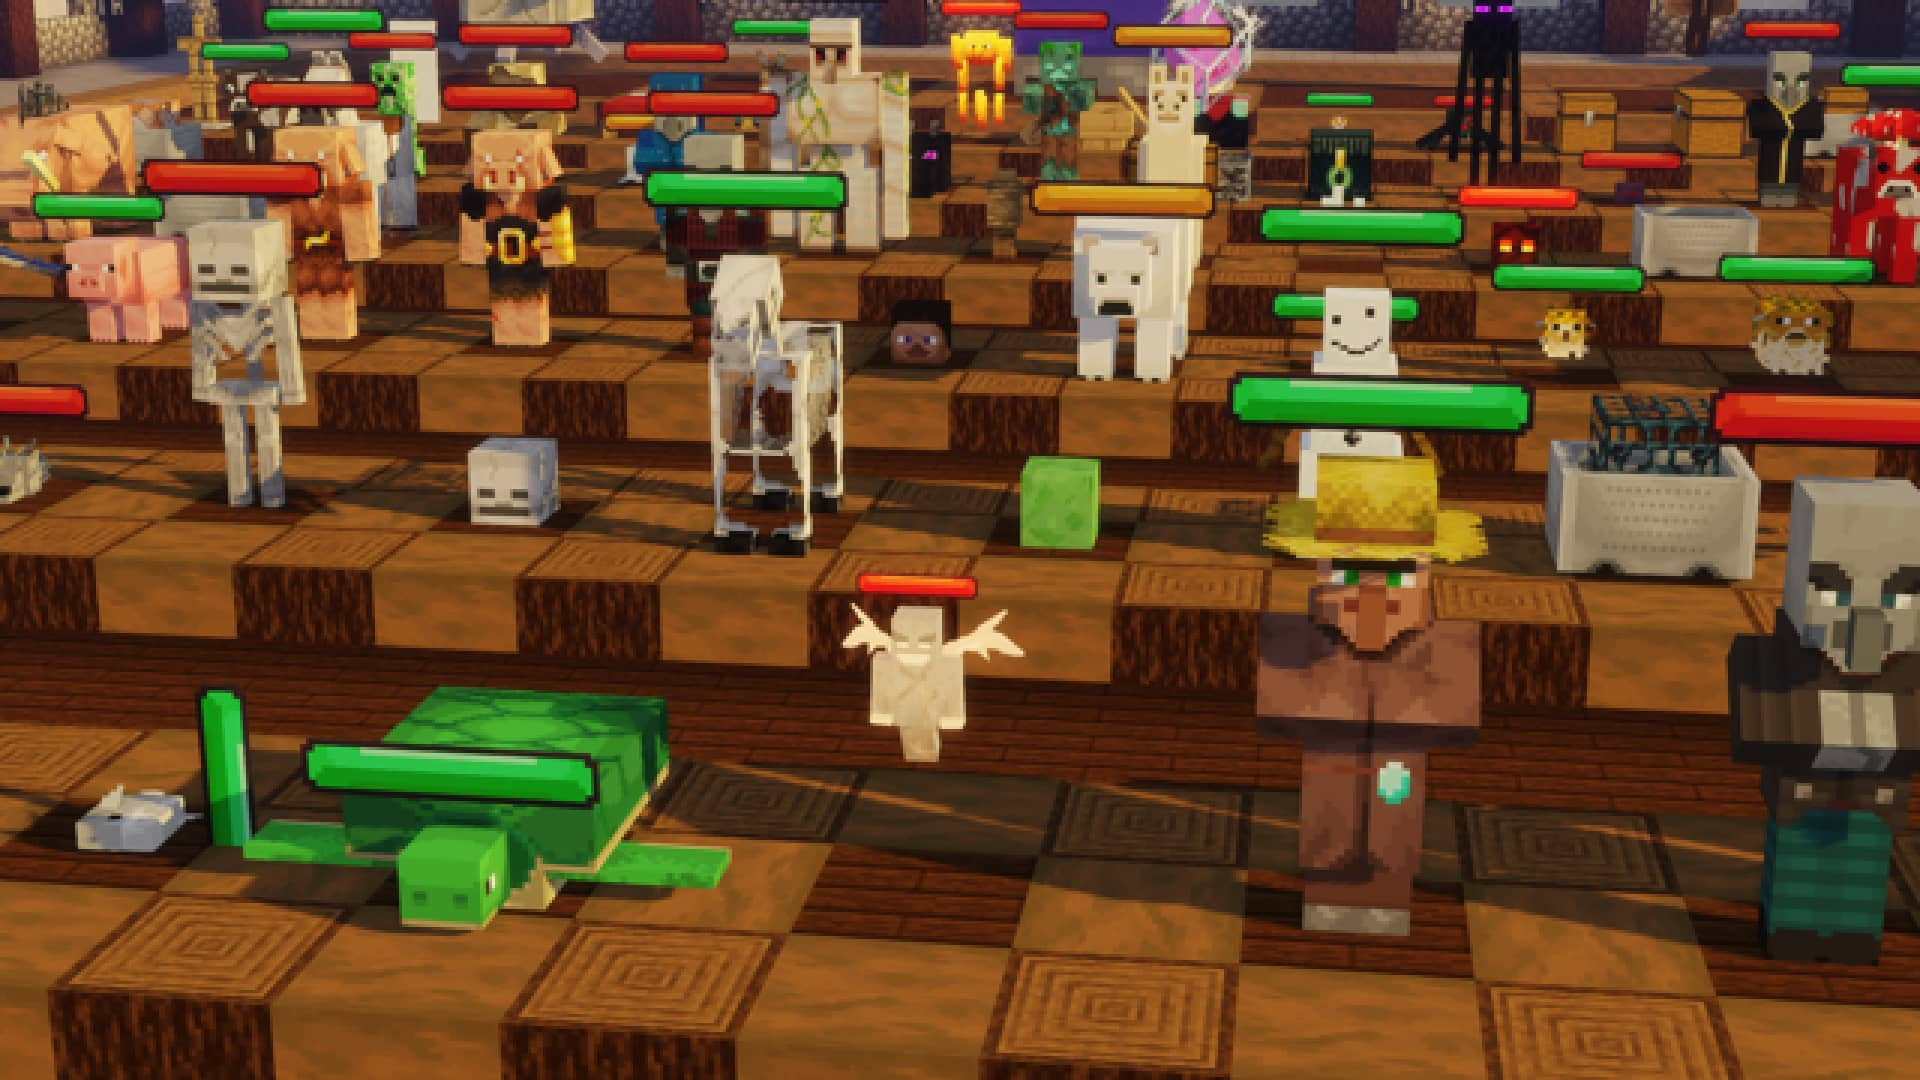
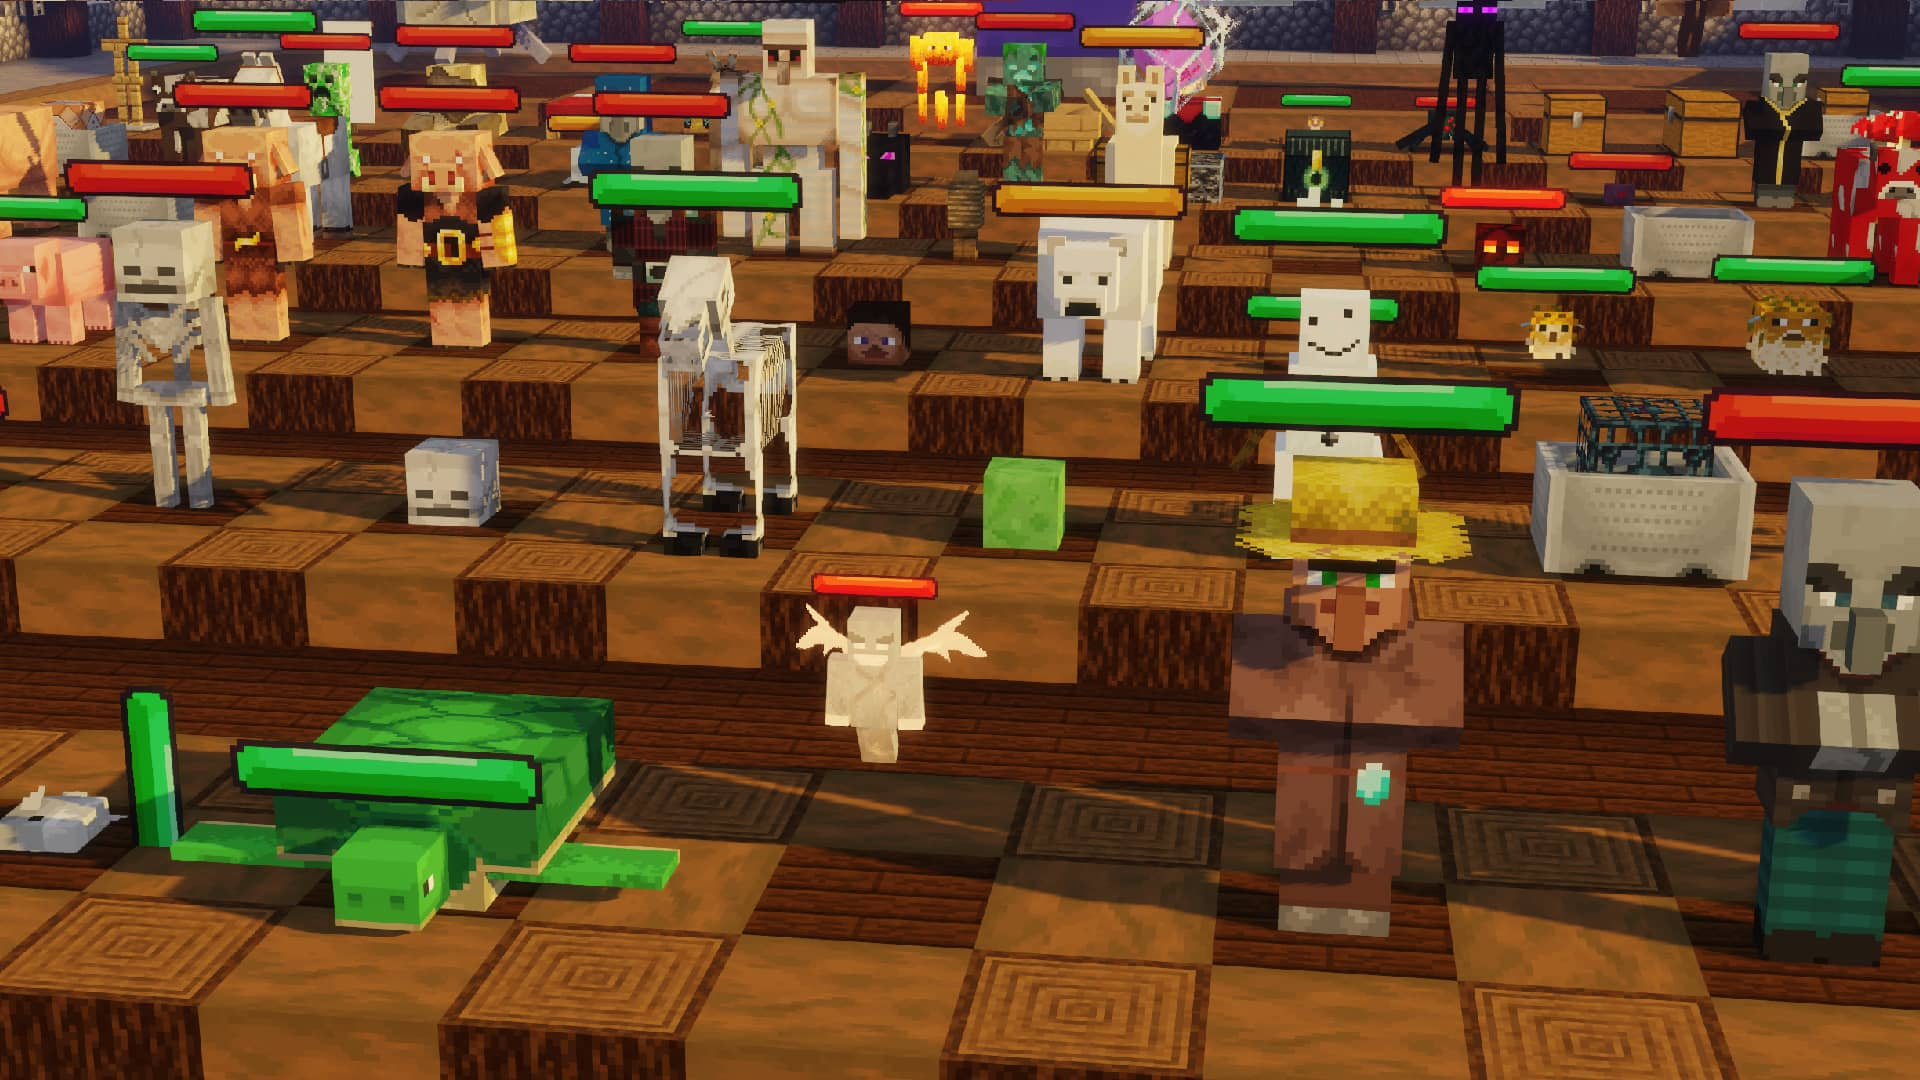
add entity healthbars 64x, renamed alternative environment to lively environment

diff --git a/article/compliance64xAddons/Lively Environment.md b/article/compliance64xAddons/Lively Environment.md
@@ -1,0 +1,19 @@
+---
+title: Lively Environment
+permalink: /article/compliance64xAddons/Lively%20Environment
+comments: true
+comments-id: LivelyEnvironment
+header-img: article/compliance64xAddons/Lively Environment.jpg
+
+carousel-img: article/carousel/Lively Environment/
+show_carousel_name: false
+
+long_text: Do you also think that the Compliance 64x has no variation and textures are always repetitive? Don't worry, Compliance 64x Lively Environment is here! It will help you make your world more beautiful, make the fauna and flora more majestic and many more.
+
+authors:
+  - HARAG0N
+
+download:
+  - Planet Minecraft:
+    - https://www.planetminecraft.com/texture-pack/compliance-64x-alternative/
+---

diff --git a/article/compliance64xAddons/Entity Healthbars.md b/article/compliance64xAddons/Entity Healthbars.md
@@ -1,0 +1,20 @@
+---
+title: Entity Healthbars
+permalink: /article/compliance64xAddons/Entity%20Healthbars
+comments: true
+comments-id: EntityHealthbars64x
+header-img: article/compliance64xAddons/Entity Healthbars.jpg
+
+carousel-img: article/carousel/Entity Healthbars/64x/
+show_carousel_name: false
+
+long_text: This pack adds 64x resolution healthbars to all of the entities that support OptiFine entity models. This pack requires OptiFine to work.
+
+authors:
+  - Ewan Howell:
+    - https://twitter.com/ewanhowell5195
+
+download:
+  - ewanhowell.com:
+    - https://www.ewanhowell.com/?pack=entity-healthbars-hd
+---

diff --git a/article/compliance32xAddons/Entity Healthbars.md b/article/compliance32xAddons/Entity Healthbars.md
@@ -2,13 +2,17 @@
 title: Entity Healthbars
 permalink: /article/compliance32xAddons/Entity%20Healthbars
 comments: true
-comments-id: EntityHealthbars
+comments-id: EntityHealthbars32x
 header-img: article/compliance32xAddons/Entity Healthbars.jpg
+
+carousel-img: article/carousel/Entity Healthbars/32x/
+show_carousel_name: false
 
 long_text: This pack adds 32x resolution healthbars to all of the entities that support OptiFine entity models. This pack requires OptiFine to work.
 
 authors:
-  - Ewan Howell
+  - Ewan Howell:
+    - https://twitter.com/ewanhowell5195
 
 download:
   - ewanhowell.com:
